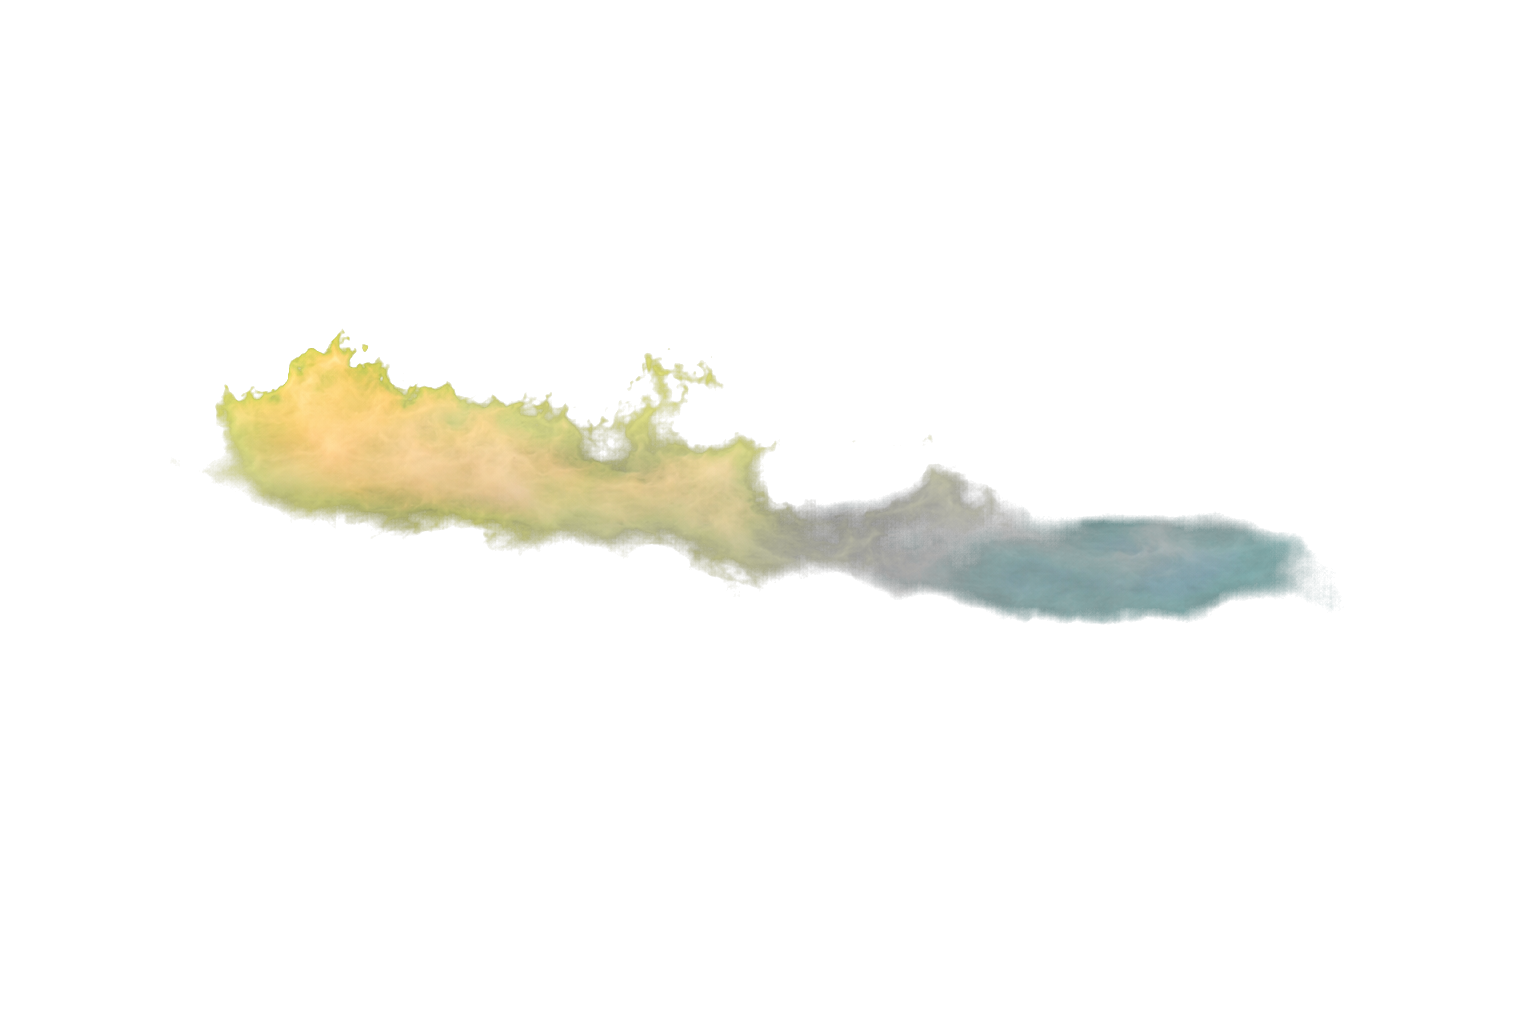
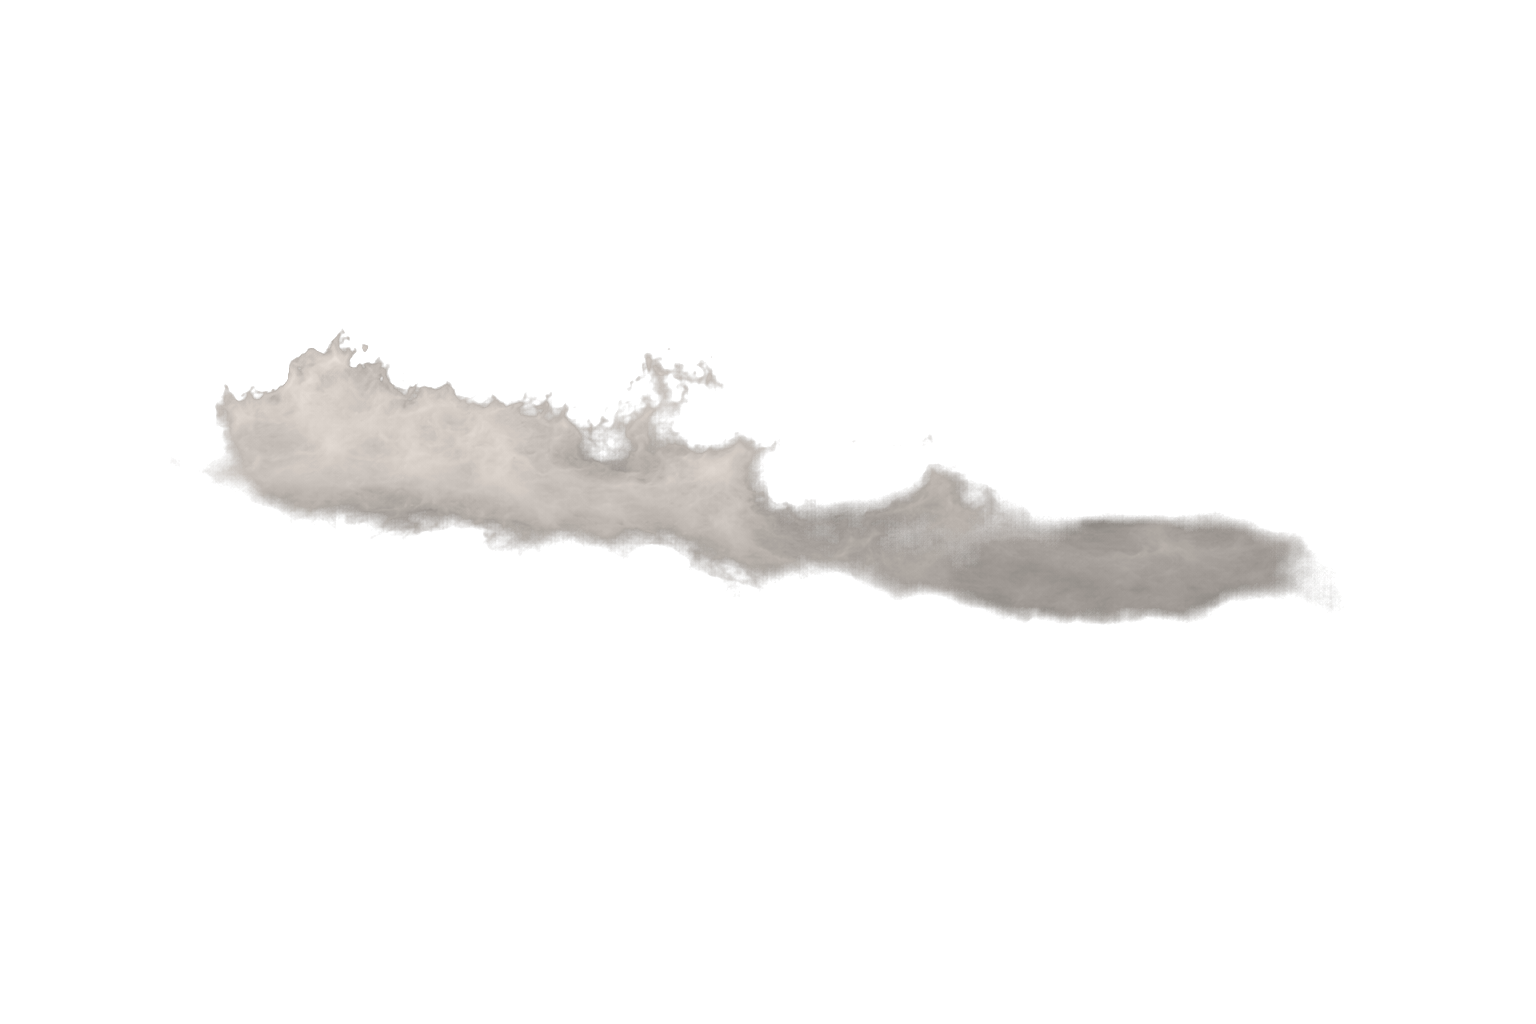
v3: continuous Mostar-style camera pull-back (one world, no scene pushes)

Changed region(s): [[0.125, 0.3125, 0.5, 0.5625], [0.6562, 0.5, 0.8438, 0.5938], [0.7188, 0.5, 0.75, 0.5312]]

diff --git a/index.html b/index.html
@@ -3,12 +3,11 @@
 <head>
 <meta charset="UTF-8">
 <meta name="viewport" content="width=device-width, initial-scale=1.0">
-<title>Kawsaypac — Journey Hero v2</title>
+<title>Kawsaypac — Journey Hero v3 (continuous pull-back)</title>
 <link rel="preconnect" href="https://fonts.googleapis.com">
 <link href="https://fonts.googleapis.com/css2?family=Cormorant+Garamond:ital,wght@0,400;0,500;0,600;1,400;1,500&family=Jost:wght@300;400;500&display=swap" rel="stylesheet">
 <style>
   * { margin:0; padding:0; box-sizing:border-box; }
-  html { scroll-behavior:auto; }
   body { background:#0d1410; font-family:'Jost',sans-serif; }
 
   /* NAV — liquid glass pill */
@@ -26,37 +25,29 @@
   .nav a { text-decoration:none; color:#22301f; font-size:11.5px; letter-spacing:.14em; text-transform:uppercase; }
   .nav .cta { background:#1c3a24; color:#f2efe6; padding:10px 20px; border-radius:999px; font-size:11.5px; letter-spacing:.14em; }
 
-  /* HERO shell */
-  #hero { position:relative; width:100%; min-width:100vw; height:100vh; overflow:hidden; background:#0d1410; }
-  .scene { position:absolute; inset:0; overflow:hidden; }
-  .scene.feather { -webkit-mask-image:linear-gradient(to bottom, transparent 0%, #000 9%); mask-image:linear-gradient(to bottom, transparent 0%, #000 9%); }
-  .layer { position:absolute; will-change:transform; }
-  .layer img { display:block; width:100%; height:100%; object-fit:cover; }
-  .plate { inset:-6% -3%; width:106%; height:112%; }
-  .plate img { width:100%; height:100%; object-fit:cover; }
+  /* HERO shell — ONE continuous world */
+  #hero { position:relative; width:100%; min-width:100vw; height:100vh; overflow:hidden; background:#9db8c9; }
+  .world { position:absolute; inset:0; }
+  .grp { position:absolute; inset:0; will-change:transform, opacity; }
+  .lyr { position:absolute; inset:0; will-change:transform; }
+  .lyr img { position:absolute; inset:0; width:100%; height:100%; object-fit:cover; object-position:center; display:block; }
 
-  /* registered full-canvas segments: all share the exact same box, so they always re-assemble */
-  .reg { inset:-6% -3%; width:106%; height:112%; }
-  .reg img { width:100%; height:100%; object-fit:cover; object-position:center; }
-
-  /* SCENE TEXT */
-  .copy { position:absolute; z-index:40; left:6vw; top:26vh; max-width:560px; color:#fff; }
+  /* text */
+  .copy { position:absolute; z-index:60; left:6vw; top:24vh; max-width:600px; color:#fff; opacity:0; }
   .copy .alt { font-size:10.5px; letter-spacing:.3em; text-transform:uppercase; opacity:.85; margin-bottom:14px; text-shadow:0 1px 12px rgba(0,0,0,.5); }
-  .copy h1, .copy .h {
+  .copy .h {
     font-family:'Cormorant Garamond',serif; font-weight:500; line-height:.95;
-    font-size:clamp(56px, 7.2vw, 108px); letter-spacing:.01em;
+    font-size:clamp(52px, 6.8vw, 100px); letter-spacing:.01em;
     text-shadow:0 2px 30px rgba(20,30,20,.45), 0 0 80px rgba(255,240,210,.25);
   }
   .copy .h em { font-style:italic; color:#e9c46a; }
-  .copy p { margin-top:18px; font-weight:300; font-size:15px; line-height:1.6; max-width:400px; text-shadow:0 1px 10px rgba(0,0,0,.55); }
+  .copy p { margin-top:18px; font-weight:300; font-size:15px; line-height:1.6; max-width:420px; text-shadow:0 1px 10px rgba(0,0,0,.55); }
   .copy .scroll { margin-top:26px; font-size:10px; letter-spacing:.3em; text-transform:uppercase; opacity:.8; }
   .halo { position:absolute; left:-8%; top:-12%; width:120%; height:130%; z-index:-1;
     background:radial-gradient(ellipse at 35% 40%, rgba(24,30,22,.42) 0%, rgba(24,30,22,.18) 45%, transparent 72%); border-radius:50%; filter:blur(8px); }
+  #copy2 { top:auto; bottom:15vh; }
+  #copy3 { top:auto; bottom:13vh; }
 
-  #copy2 { top:auto; bottom:16vh; }
-  #copy3 { top:auto; bottom:14vh; }
-
-  /* progress rail */
   .rail { position:fixed; right:26px; top:50%; transform:translateY(-50%); z-index:90; color:#fff;
     display:flex; flex-direction:column; align-items:center; gap:10px; font-size:9px; letter-spacing:.25em; }
   .rail .bar { width:2px; height:120px; background:rgba(255,255,255,.25); border-radius:2px; position:relative; }
@@ -66,7 +57,7 @@
   .after { min-height:120vh; background:#f7f3ea; display:flex; align-items:center; justify-content:center; }
   .after h2 { font-family:'Cormorant Garamond',serif; font-size:44px; color:#22301f; font-weight:500; }
 
-  @media (prefers-reduced-motion: reduce) { .layer { transform:none !important; } }
+  @media (prefers-reduced-motion: reduce) { .grp, .lyr { transform:none !important; opacity:1 !important; } }
 </style>
 </head>
 <body>
@@ -80,58 +71,68 @@
 <div class="rail"><span>COTOPAXI → AMAZON</span><div class="bar"><i id="railFill"></i></div></div>
 
 <section id="hero">
+  <div class="world">
 
-  <!-- SCENE 1 · SUMMIT (registered segments C1→C4, one canvas, no seams possible) -->
-  <div class="scene" id="scene1">
-    <div class="layer reg" id="s1-c1" style="z-index:1"><img src="assets/C1-upper-sky-sunrise.png" alt=""></div>
-    <div class="layer reg" id="s1-c3" style="z-index:2"><img src="assets/C3-left-ridge.png" alt=""></div>
-    <div class="layer reg" id="s1-c4" style="z-index:3"><img src="assets/C4-valley-right-ridge.png" alt=""></div>
-    <div class="layer reg" id="s1-c2" style="z-index:4"><img src="assets/C2-central-volcano-clouds.png" alt=""></div>
-    <div class="copy" id="copy1" style="z-index:30">
-      <div class="halo"></div>
-      <div class="alt">5,897 M · COTOPAXI, ECUADOR</div>
-      <h1 class="h">Heal<br>yourself,<br><em>Kawsaypac.</em></h1>
-      <p>Begin at the summit. Follow living water through the Andes and into the Amazon.</p>
-      <div class="scroll">SCROLL TO DESCEND ——</div>
+    <!-- DEPTH 0 · SKY (infinitely far, near-static). C1 = the summit scene's own sunrise sky. -->
+    <div class="grp" id="gSky" style="z-index:1">
+      <div class="lyr"><img src="assets/C1-upper-sky-sunrise.png" alt=""></div>
     </div>
+
+    <!-- DEPTH 1 · SUMMIT WORLD (registered segments minus the sky, one box, stays registered).
+         Starts close (camera on the mountain), recedes as we pull back. -->
+    <div class="grp" id="gSummit" style="z-index:2; transform-origin:50% 42%">
+      <div class="lyr"><img src="assets/C3-left-ridge.png" alt=""></div>
+      <div class="lyr"><img src="assets/C4-valley-right-ridge.png" alt=""></div>
+      <div class="lyr"><img src="assets/C2-central-volcano-clouds.png" alt=""></div>
+    </div>
+
+    <!-- DEPTH 2 · VALLEY WORLD. Starts scaled huge (we are inside it, elements behind the camera);
+         as we pull back its walls sweep IN from the frame edges and settle around the shrinking summit. -->
+    <div class="grp" id="gValley" style="z-index:3; transform-origin:50% 78%; opacity:0">
+      <div class="lyr" style="inset:auto -10% -16% auto; width:58%; height:76%"><img src="assets/v-ridge-left.png" style="object-fit:contain; object-position:right bottom" alt=""></div>
+      <div class="lyr" style="inset:auto auto -16% -10%; width:58%; height:76%"><img src="assets/v-ridge-right.png" style="object-fit:contain; object-position:left bottom" alt=""></div>
+      <div class="lyr" style="inset:auto auto -8% 36%; width:28%; height:42%"><img src="assets/v-river.png" style="object-fit:contain; object-position:center bottom" alt=""></div>
+      <div class="lyr" id="vMist" style="inset:auto -4% 20% -4%; height:26%; opacity:.6; mix-blend-mode:screen"><img src="assets/v-mist.png" style="object-fit:cover" alt=""></div>
+      <div class="lyr" style="inset:auto -2% -10% -2%; height:26%"><img src="assets/v-meadow.png" style="object-fit:cover; object-position:center top" alt=""></div>
+      <div class="lyr" style="inset:auto auto -3% 1%; width:19%; height:30%"><img src="assets/v-wildflowers.png" style="object-fit:contain; object-position:left bottom" alt=""></div>
+    </div>
+
+    <!-- DEPTH 3 · JUNGLE RING (registered segments, transparent centers -> they close around the frame
+         like the Mostar arch in reverse; the valley stays visible through the middle while they arrive). -->
+    <div class="grp" id="gJungle" style="z-index:4; transform-origin:50% 55%; opacity:0">
+      <div class="lyr"><img src="assets/J1-upper-left-canopy.png" alt=""></div>
+      <div class="lyr"><img src="assets/J2-upper-right-toucan-canopy.png" alt=""></div>
+      <div class="lyr"><img src="assets/J4-lower-right-orchid-ferns.png" alt=""></div>
+      <div class="lyr"><img src="assets/J3-lower-left-snake-branch.png" alt=""></div>
+    </div>
+
+    <!-- DEPTH 3b · JUNGLE FILL PLATE: completes the composed jungle only at the very end. -->
+    <div class="grp" id="gJunglePlate" style="z-index:3; opacity:0">
+      <div class="lyr"><img src="assets/j-depth-plate.jpg" alt=""></div>
+    </div>
+
   </div>
 
-  <!-- SCENE 2 · VALLEY (keyed components over the valley sky plate) -->
-  <div class="scene feather" id="scene2" style="visibility:hidden">
-    <div class="layer plate" id="s2-sky" style="z-index:1"><img src="assets/v-sky-plate.jpg" alt=""></div>
-    <div class="layer" id="s2-peaks" style="z-index:2; left:8%; right:8%; top:34%; height:16%"><img src="assets/v-far-peaks.png" style="object-fit:contain; object-position:center bottom" alt=""></div>
-    <div class="layer" id="s2-mistFar" style="z-index:3; left:-4%; top:42%; width:108%; height:22%; opacity:1; mix-blend-mode:screen"><img src="assets/v-mist.png" style="object-fit:cover" alt=""></div>
-    <!-- v-ridge-right's subject sits bottom-LEFT of its canvas → it is the LEFT wall (cut edges go off-frame left+bottom).
-         v-ridge-left's subject sits bottom-RIGHT of its canvas → it is the RIGHT wall (cut edges off-frame right+bottom). -->
-    <div class="layer" id="s2-ridgeL" style="z-index:4; left:-10%; bottom:-16%; width:58%; height:76%"><img src="assets/v-ridge-right.png" style="object-fit:contain; object-position:left bottom" alt=""></div>
-    <div class="layer" id="s2-ridgeR" style="z-index:4; right:-10%; bottom:-16%; width:58%; height:76%"><img src="assets/v-ridge-left.png" style="object-fit:contain; object-position:right bottom" alt=""></div>
-    <div class="layer" id="s2-river" style="z-index:5; left:36%; bottom:-8%; width:28%; height:42%"><img src="assets/v-river.png" style="object-fit:contain; object-position:center bottom" alt=""></div>
-    <div class="layer" id="s2-mist" style="z-index:6; left:-4%; bottom:22%; width:108%; height:22%; opacity:.55; mix-blend-mode:screen"><img src="assets/v-mist.png" style="object-fit:cover" alt=""></div>
-    <div class="layer" id="s2-meadow" style="z-index:7; left:-2%; bottom:-10%; width:104%; height:26%"><img src="assets/v-meadow.png" style="object-fit:cover; object-position:center top" alt=""></div>
-    <div class="layer" id="s2-flowers" style="z-index:8; left:1%; bottom:-3%; width:19%; height:30%"><img src="assets/v-wildflowers.png" style="object-fit:contain; object-position:left bottom" alt=""></div>
-    <div class="copy" id="copy2" style="z-index:30; opacity:0">
-      <div class="halo"></div>
-      <div class="alt">3,100 M · THE LIVING VALLEY</div>
-      <div class="h">Where water<br><em>remembers.</em></div>
-      <p>Glacial rivers feed the paramo. The paramo feeds everything we harvest.</p>
-    </div>
+  <!-- TEXT -->
+  <div class="copy" id="copy1" style="opacity:1">
+    <div class="halo"></div>
+    <div class="alt">5,897 M · COTOPAXI, ECUADOR</div>
+    <h1 class="h">Heal<br>yourself,<br><em>Kawsaypac.</em></h1>
+    <p>Begin at the summit. Pull back through the Andes and into the Amazon.</p>
+    <div class="scroll">SCROLL TO DESCEND ——</div>
   </div>
-
-  <!-- SCENE 3 · JUNGLE (registered segments J1→J4) -->
-  <div class="scene feather" id="scene3" style="visibility:hidden">
-    <div class="layer plate" id="s3-plate" style="z-index:1"><img src="assets/j-depth-plate.jpg" alt=""></div>
-    <div class="layer reg" id="s3-j1" style="z-index:2"><img src="assets/J1-upper-left-canopy.png" alt=""></div>
-    <div class="layer reg" id="s3-j2" style="z-index:3"><img src="assets/J2-upper-right-toucan-canopy.png" alt=""></div>
-    <div class="layer reg" id="s3-j4" style="z-index:4"><img src="assets/J4-lower-right-orchid-ferns.png" alt=""></div>
-    <div class="layer reg" id="s3-j3" style="z-index:5"><img src="assets/J3-lower-left-snake-branch.png" alt=""></div>
-    <div class="copy" id="copy3" style="z-index:30; opacity:0">
-      <div class="halo"></div>
-      <div class="alt">AMAZON BASIN · ECUADOR</div>
-      <div class="h">Where the Andes<br>become <em>Amazon.</em></div>
-      <p>Every blend is wildcrafted here, with the communities who have always known these plants.</p>
-    </div>
+  <div class="copy" id="copy2">
+    <div class="halo"></div>
+    <div class="alt">3,100 M · THE LIVING VALLEY</div>
+    <div class="h">Where water<br><em>remembers.</em></div>
+    <p>Glacial rivers feed the paramo. The paramo feeds everything we harvest.</p>
   </div>
-
+  <div class="copy" id="copy3">
+    <div class="halo"></div>
+    <div class="alt">AMAZON BASIN · ECUADOR</div>
+    <div class="h">Where the Andes<br>become <em>Amazon.</em></div>
+    <p>Every blend is wildcrafted here, with the communities who have always known these plants.</p>
+  </div>
 </section>
 
 <section class="after"><h2>— homepage sections continue below —</h2></section>
@@ -146,51 +147,43 @@ const mm = gsap.matchMedia();
 mm.add("(prefers-reduced-motion: no-preference)", () => {
 
   const tl = gsap.timeline({
-    scrollTrigger: { trigger:"#hero", start:"top top", end:"+=420%", scrub:0.6, pin:true }
+    scrollTrigger: { trigger:"#hero", start:"top top", end:"+=500%", scrub:0.7, pin:true }
   });
 
-  /* ---------- SCENE 1 (0 → .30): summit holds, layers breathe apart as we begin descending ---------- */
-  /* registered segments must stay near-registered: tiny divergence only */
-  tl.to("#s1-c2", { yPercent:-4, scale:1.03, ease:"none", duration:.30 }, 0);
-  tl.to("#s1-c3", { yPercent:-6, scale:1.04, ease:"none", duration:.30 }, 0);
-  tl.to("#s1-c4", { yPercent:-5, scale:1.04, ease:"none", duration:.30 }, 0);
-  tl.to("#s1-c1", { yPercent:-2, ease:"none", duration:.30 }, 0);
-  tl.to("#copy1", { opacity:0, y:-40, ease:"power1.in", duration:.08 }, .20);
+  /* ============ ONE CONTINUOUS PULL-BACK, p 0 -> 1 ============ */
 
-  /* ---------- TRANSITION 1 (.30 → .40): scene1 rises away, scene2 rises in from below ---------- */
-  tl.set("#scene2", { visibility:"visible" }, .28);
-  tl.fromTo("#scene2", { yPercent:100 }, { yPercent:0, ease:"none", duration:.12 }, .30);
-  tl.to("#scene1", { yPercent:-38, ease:"none", duration:.12 }, .30);
-  tl.set("#scene1", { visibility:"hidden" }, .43);
+  /* Sky: infinitely far, barely moves the whole time */
+  tl.fromTo("#gSky", { scale:1.18 }, { scale:1.02, ease:"none", duration:1 }, 0);
 
-  /* ---------- SCENE 2 (.40 → .62): valley parallax ---------- */
-  tl.fromTo("#s2-peaks",  { yPercent:3 },  { yPercent:-2,  ease:"none", duration:.24 }, .40);
-  tl.fromTo("#s2-mistFar",{ xPercent:3 },  { xPercent:-3,  ease:"none", duration:.24 }, .40);
-  tl.fromTo("#s2-ridgeL", { yPercent:6 },  { yPercent:-3,  ease:"none", duration:.24 }, .40);
-  tl.fromTo("#s2-ridgeR", { yPercent:6 },  { yPercent:-3,  ease:"none", duration:.24 }, .40);
-  tl.fromTo("#s2-river",  { yPercent:9 },  { yPercent:-4,  ease:"none", duration:.24 }, .40);
-  tl.fromTo("#s2-mist",   { xPercent:-4 }, { xPercent:4,   ease:"none", duration:.24 }, .40);
-  tl.fromTo("#s2-meadow", { yPercent:12 }, { yPercent:-6,  ease:"none", duration:.24 }, .40);
-  tl.fromTo("#s2-flowers",{ yPercent:15 }, { yPercent:-8,  ease:"none", duration:.24 }, .40);
-  tl.to("#copy2", { opacity:1, y:-14, ease:"power1.out", duration:.06 }, .43);
-  tl.to("#copy2", { opacity:0, y:-40, ease:"power1.in", duration:.06 }, .56);
+  /* Summit: camera starts ON the mountain (close), recedes continuously */
+  tl.fromTo("#gSummit", { scale:2.35, yPercent:6 }, { scale:1.0, yPercent:0, ease:"power1.out", duration:0.45 }, 0);
+  tl.to("#gSummit", { scale:0.56, yPercent:-9, ease:"power1.in", duration:0.55 }, 0.45);
 
-  /* ---------- TRANSITION 2 (.62 → .72): valley rises away, jungle rises in ---------- */
-  tl.set("#scene3", { visibility:"visible" }, .60);
-  tl.fromTo("#scene3", { yPercent:100 }, { yPercent:0, ease:"none", duration:.12 }, .62);
-  tl.to("#scene2", { yPercent:-38, ease:"none", duration:.12 }, .62);
-  tl.set("#scene2", { visibility:"hidden" }, .75);
+  /* Valley: passes the camera. Arrives scaled huge from the edges, settles at 1, keeps receding slightly */
+  tl.set("#gValley", { scale:4.6 }, 0);
+  tl.to("#gValley", { opacity:1, ease:"none", duration:0.10 }, 0.16);
+  tl.to("#gValley", { scale:1.0, ease:"power1.out", duration:0.42 }, 0.16);
+  tl.to("#gValley", { scale:0.88, yPercent:-3, ease:"none", duration:0.42 }, 0.58);
 
-  /* ---------- SCENE 3 (.72 → 1): jungle parallax + text ---------- */
-  tl.fromTo("#s3-j1", { yPercent:5, scale:1.05 }, { yPercent:-4, scale:1.0, ease:"none", duration:.28 }, .72);
-  tl.fromTo("#s3-j2", { yPercent:7 },  { yPercent:-5, ease:"none", duration:.28 }, .72);
-  tl.fromTo("#s3-j4", { yPercent:10 }, { yPercent:-7, ease:"none", duration:.28 }, .72);
-  tl.fromTo("#s3-j3", { yPercent:13 }, { yPercent:-9, ease:"none", duration:.28 }, .72);
-  tl.to("#copy3", { opacity:1, y:-14, ease:"power1.out", duration:.07 }, .78);
+  /* Jungle ring: closes around the frame last (Mostar arch in reverse) */
+  tl.set("#gJungle", { scale:8.5 }, 0);
+  tl.to("#gJungle", { opacity:1, ease:"none", duration:0.08 }, 0.52);
+  tl.to("#gJungle", { scale:1.0, ease:"power1.out", duration:0.46 }, 0.52);
 
-  /* rail */
+  /* Jungle fill plate completes the composed forest only at the very end */
+  tl.to("#gJunglePlate", { opacity:1, ease:"none", duration:0.12 }, 0.86);
+
+  /* mist life */
+  tl.fromTo("#vMist", { xPercent:-3 }, { xPercent:3, ease:"none", duration:0.8 }, 0.2);
+
+  /* text choreography — one at a time */
+  tl.to("#copy1", { opacity:0, y:-40, ease:"power1.in", duration:0.07 }, 0.16);
+  tl.to("#copy2", { opacity:1, y:-12, ease:"power1.out", duration:0.07 }, 0.44);
+  tl.to("#copy2", { opacity:0, y:-40, ease:"power1.in", duration:0.07 }, 0.62);
+  tl.to("#copy3", { opacity:1, y:-12, ease:"power1.out", duration:0.08 }, 0.88);
+
   gsap.to("#railFill", { height:"100%", ease:"none",
-    scrollTrigger:{ trigger:"#hero", start:"top top", end:"+=420%", scrub:true } });
+    scrollTrigger:{ trigger:"#hero", start:"top top", end:"+=500%", scrub:true } });
 });
 ScrollTrigger.refresh();
 }
@@ -198,7 +191,6 @@ ScrollTrigger.refresh();
 if (document.readyState === 'complete') initHero();
 else window.addEventListener('load', initHero);
 
-/* image guard */
 document.querySelectorAll('img').forEach(im => im.addEventListener('error', () => { im.style.background='linear-gradient(135deg,#1c3a24,#3a5a40)'; }));
 </script>
 </body>